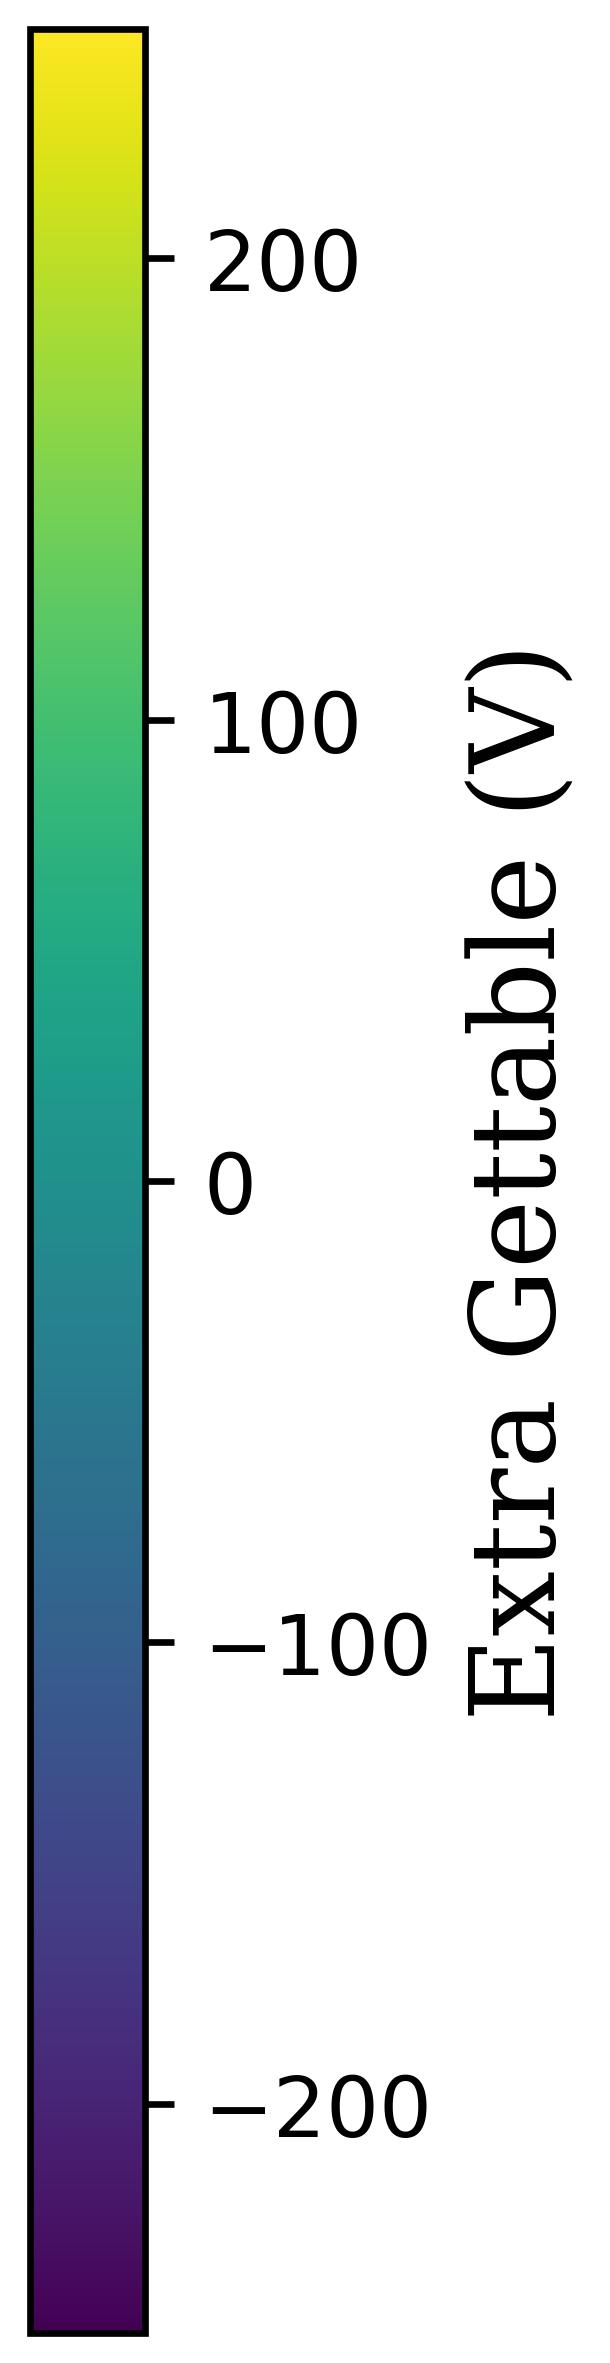
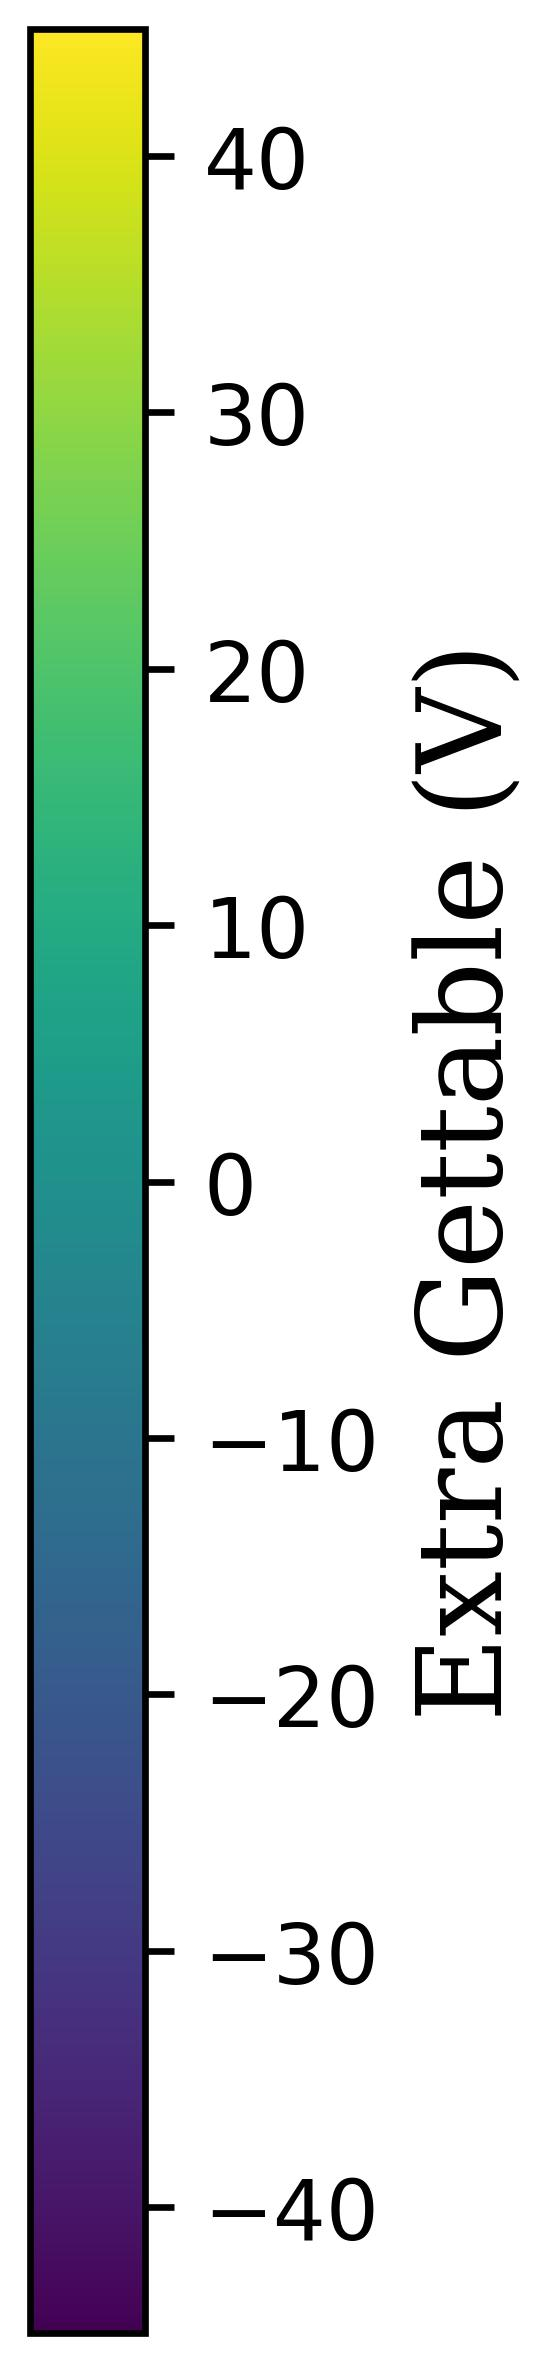
TODO: continue measurement on partially alive plots

diff --git a/script2D.py b/script2D.py
@@ -49,7 +49,7 @@ second_gettable = Parameter("second_gettable", dummy_instrument, "Extra Gettable
 
 
 sweep_number.set(1)
-dummy_voltage_source.inter_delay = 0
+dummy_voltage_source.inter_delay = 0.1
 
 quantify_measurement.set_settables([dummy_voltage_source, sweep_number])
 quantify_measurement.set_gettables([measured_voltage, second_gettable])

diff --git a/source/quantify_measurement.py b/source/quantify_measurement.py
@@ -28,7 +28,11 @@ from source import exchanger
 
 
 
-
+#remove old datadir
+try:
+	shutil.rmtree(".\\datadir", True)
+except:
+	pass
 
 ### globals
 _measurement_name = "unnamed"
